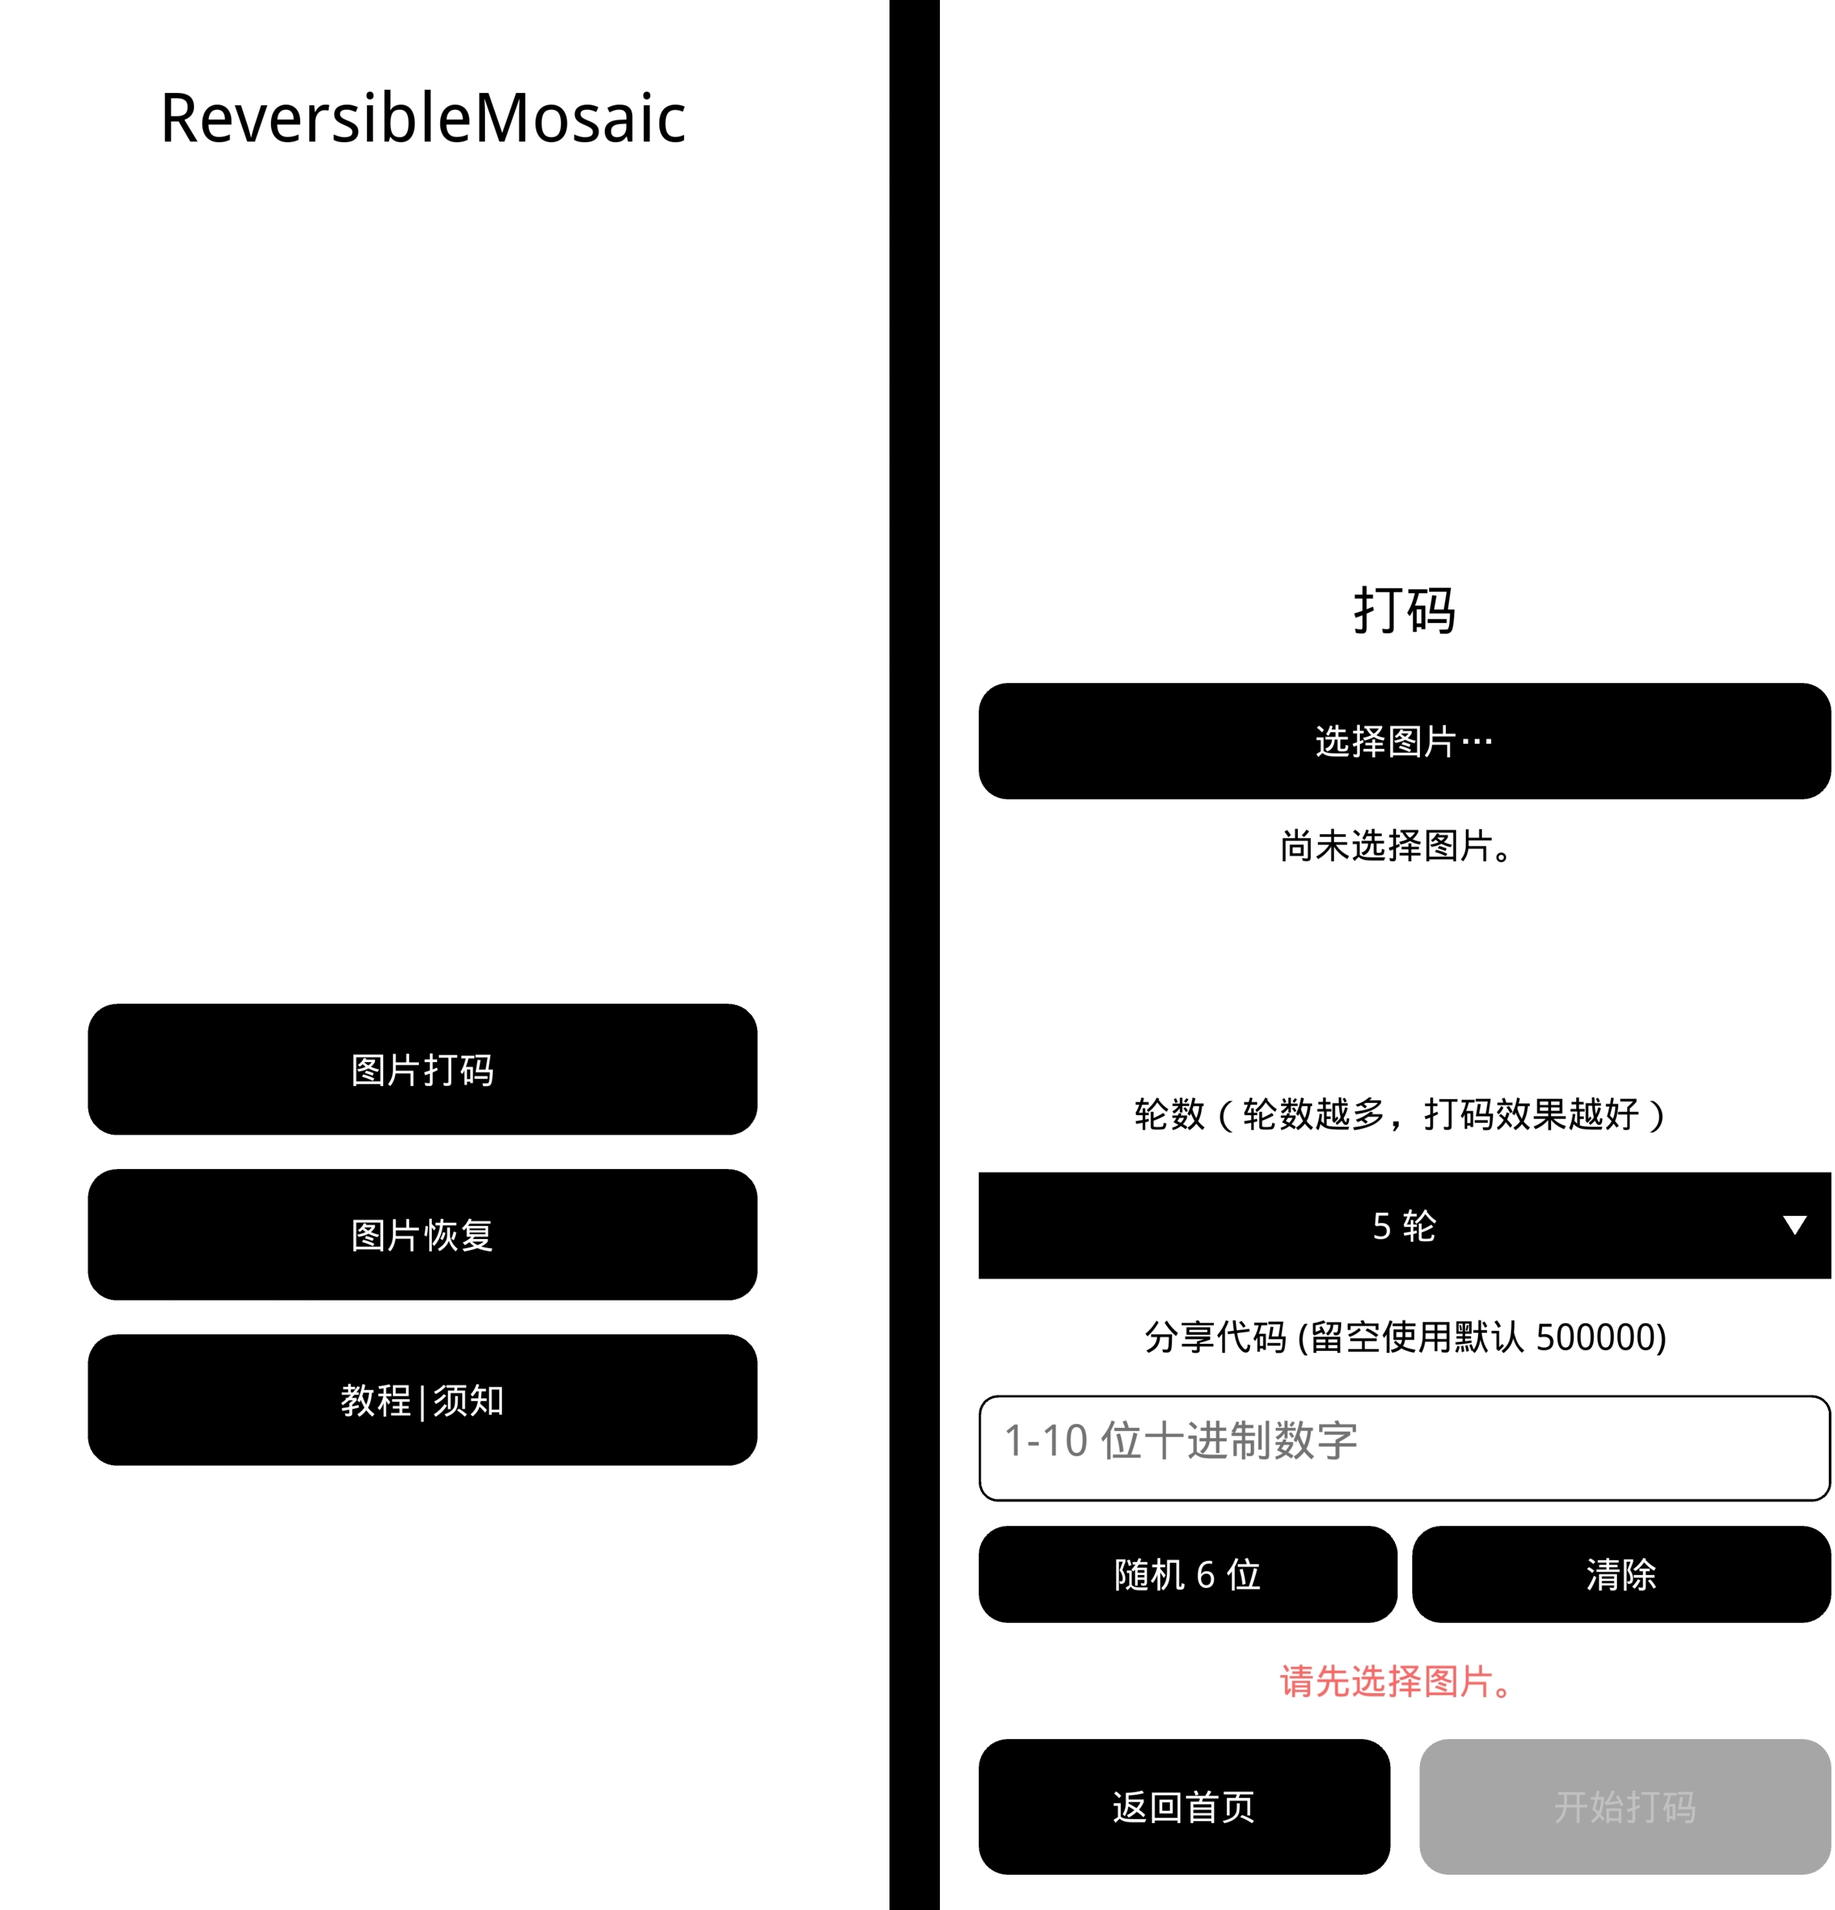
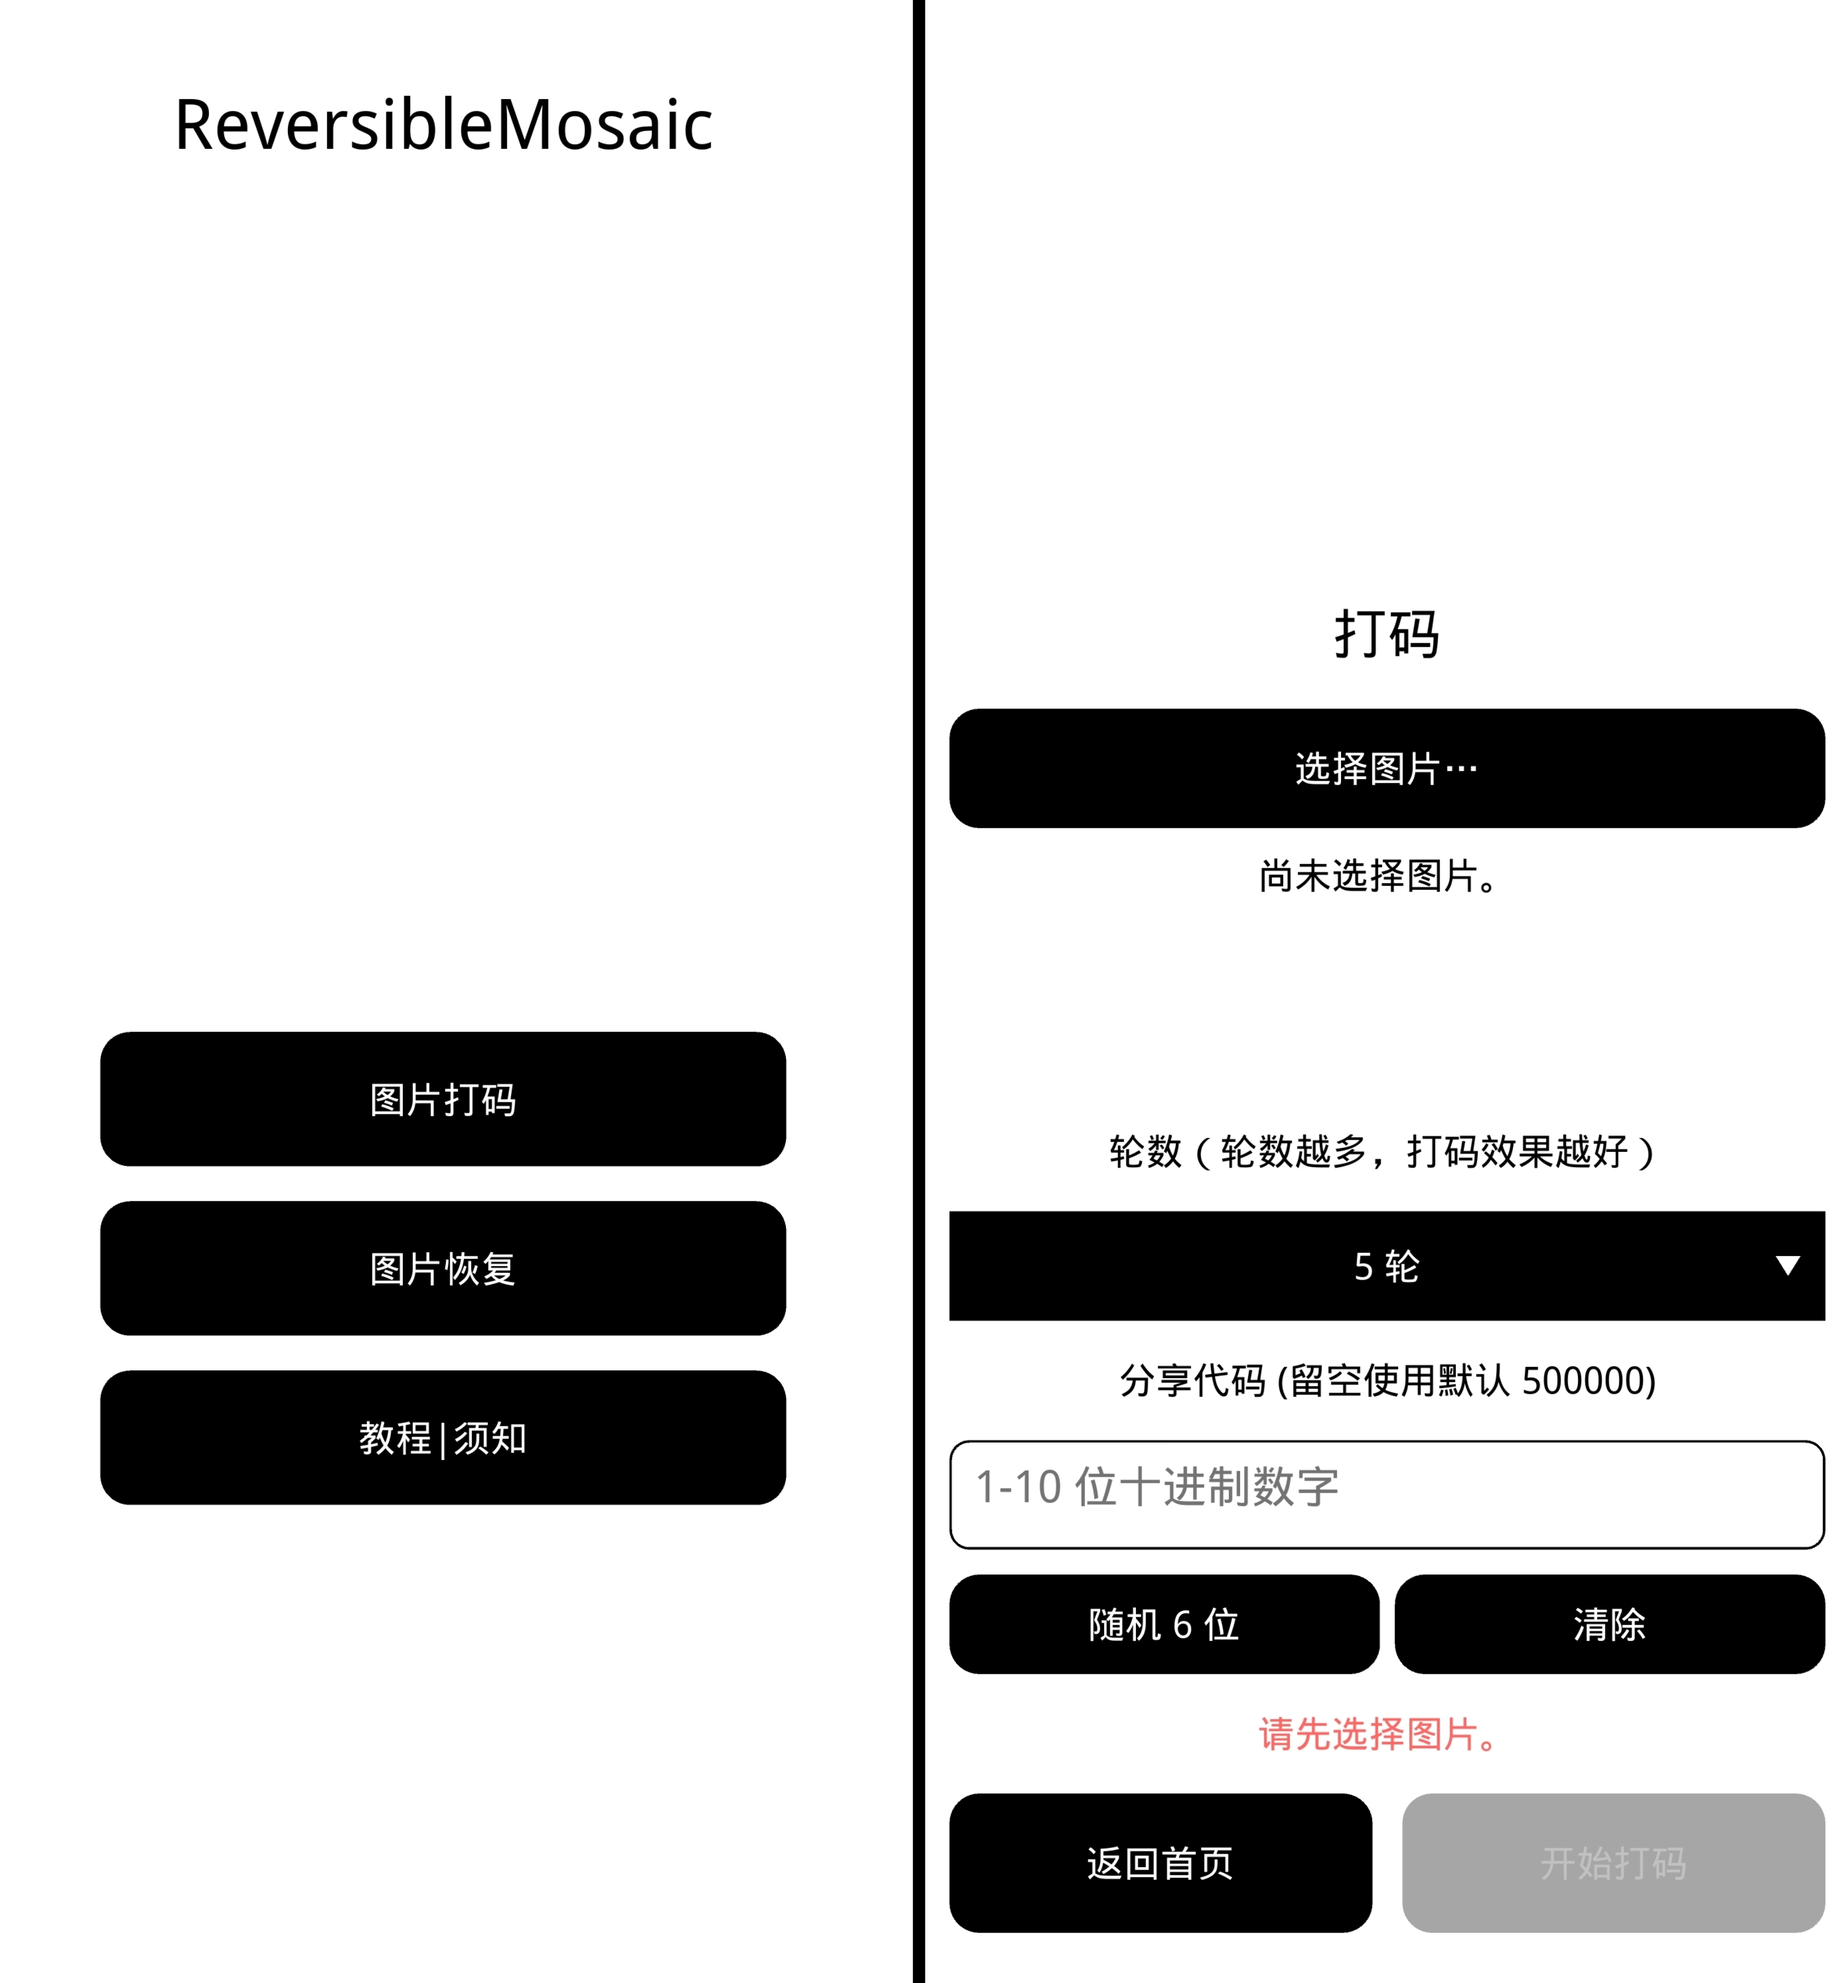
product-v2-C remove random code generating button in successful restore page

diff --git a/reversible_mosaic/ui/screens.py b/reversible_mosaic/ui/screens.py
@@ -623,7 +623,9 @@ class ResultScreen(Screen):  # type: ignore[misc]
         self._save_status_label: Label
         self._save_button: Button
         self._view_button: Button
+        self._copy_share_button: Button
         self._back_button: Button
+        self._secondary_actions: BoxLayout
         self._current_snapshot: ResultSnapshot | None = None
         self._build_widget_tree()
 
@@ -640,8 +642,8 @@ class ResultScreen(Screen):  # type: ignore[misc]
             height=dp(96),
             halign="left",
             valign="top",
-            text_size=(None, dp(96)),
         )
+        self._summary_label.bind(width=self._sync_summary_text_width)
         root.add_widget(self._summary_label)
 
         self._share_code_label = Label(
@@ -678,22 +680,34 @@ class ResultScreen(Screen):  # type: ignore[misc]
         primary_actions.add_widget(self._view_button)
         root.add_widget(primary_actions)
 
-        secondary_actions = BoxLayout(
+        self._secondary_actions = BoxLayout(
             orientation="horizontal", size_hint_y=None, height=dp(48), spacing=dp(8)
         )
-        copy_btn = _result_button("复制分享代码")
-        copy_btn.bind(on_release=lambda _btn: self._on_copy_share_code())
+        self._copy_share_button = _result_button("复制分享代码")
+        self._copy_share_button.bind(on_release=lambda _btn: self._on_copy_share_code())
         self._back_button = _result_button("返回首页")
         self._back_button.bind(on_release=lambda _btn: self._on_back())
-        secondary_actions.add_widget(copy_btn)
-        secondary_actions.add_widget(self._back_button)
-        root.add_widget(secondary_actions)
+        root.add_widget(self._secondary_actions)
 
         self.add_widget(root)
+
+    def _sync_summary_text_width(self, label: Label, _width: float) -> None:
+        label.text_size = (label.width, label.height)
+
+    def _configure_secondary_actions(self, operation: str) -> None:
+        self._secondary_actions.clear_widgets()
+        if operation == "encrypted":
+            self._copy_share_button.size_hint_x = 1
+            self._back_button.size_hint_x = 1
+            self._secondary_actions.add_widget(self._copy_share_button)
+        else:
+            self._back_button.size_hint_x = 2
+        self._secondary_actions.add_widget(self._back_button)
 
     def apply_result(self, snapshot: ResultSnapshot) -> None:
         assert self._image_widget is not None
         self._current_snapshot = snapshot
+        self._configure_secondary_actions(snapshot.operation)
         self._image_widget.source = str(snapshot.output_path)
         self._image_widget.reload()
         self._summary_label.text = (
@@ -701,6 +715,7 @@ class ResultScreen(Screen):  # type: ignore[misc]
             f"缓存路径: {snapshot.output_path}\n"
             f"算法: V{snapshot.algorithm_version}  轮数: {snapshot.rounds}"
         )
+        self._sync_summary_text_width(self._summary_label, self._summary_label.width)
         # Only encode outputs surface the share code — decode reuses the same
         # value entered on the form so the user already has it.
         if snapshot.operation == "encrypted":

diff --git a/tests/unit/test_screens.py b/tests/unit/test_screens.py
@@ -2,6 +2,8 @@
 
 from __future__ import annotations
 
+from pathlib import Path
+
 import pytest
 
 pytest.importorskip("kivy")
@@ -11,12 +13,46 @@ pytest.importorskip("kivy")
 from kivy.uix.label import Label
 
 from reversible_mosaic.ui.screens import DecodeScreen, EncodeScreen, ResultScreen
+from reversible_mosaic.ui.view_models import ResultSnapshot
 
 
 def _buttons_with_text(
     screen: EncodeScreen | DecodeScreen | ResultScreen, text: str
 ) -> list[object]:
     return [widget for widget in screen.walk() if getattr(widget, "text", None) == text]
+
+
+def _result_snapshot(operation: str) -> ResultSnapshot:
+    return ResultSnapshot(
+        output_path=Path(
+            "C:/private/cache/very-long-directory-name/"
+            + "nested/" * 12
+            + "result.png"
+        ),
+        algorithm_version=1,
+        rounds=5,
+        share_code_display="123456",
+        operation=operation,
+        display_name="result.png",
+    )
+
+
+def test_result_actions_depend_on_operation_and_summary_wraps() -> None:
+    screen = ResultScreen()
+
+    screen.apply_result(_result_snapshot("encrypted"))
+    assert len(_buttons_with_text(screen, "复制分享代码")) == 1
+    encrypted_back_button = _buttons_with_text(screen, "返回首页")[0]
+    assert encrypted_back_button.size_hint_x == 1
+
+    screen.apply_result(_result_snapshot("restored"))
+    assert _buttons_with_text(screen, "复制分享代码") == []
+    restored_back_button = _buttons_with_text(screen, "返回首页")[0]
+    assert restored_back_button.size_hint_x == 2
+    assert restored_back_button.parent.children == [restored_back_button]
+    assert screen._summary_label.text_size[0] == screen._summary_label.width
+    assert screen._summary_label.text_size[1] == screen._summary_label.height
+    assert f"缓存路径: {_result_snapshot('restored').output_path}" in screen._summary_label.text
 
 
 def test_encode_keeps_random_share_code_action() -> None:
